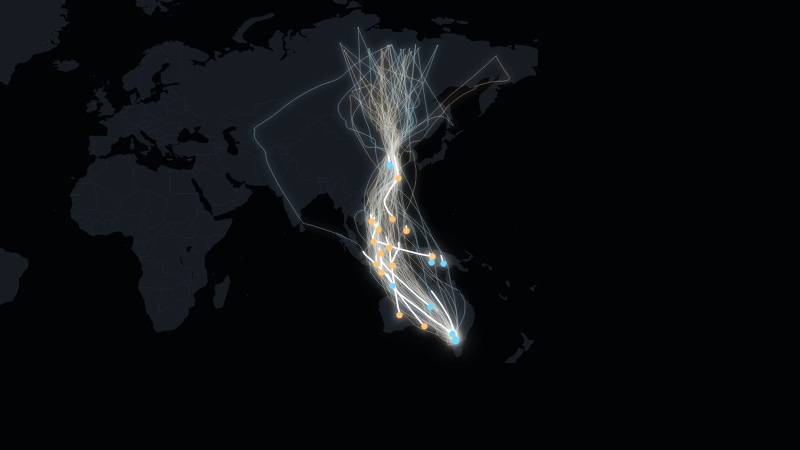
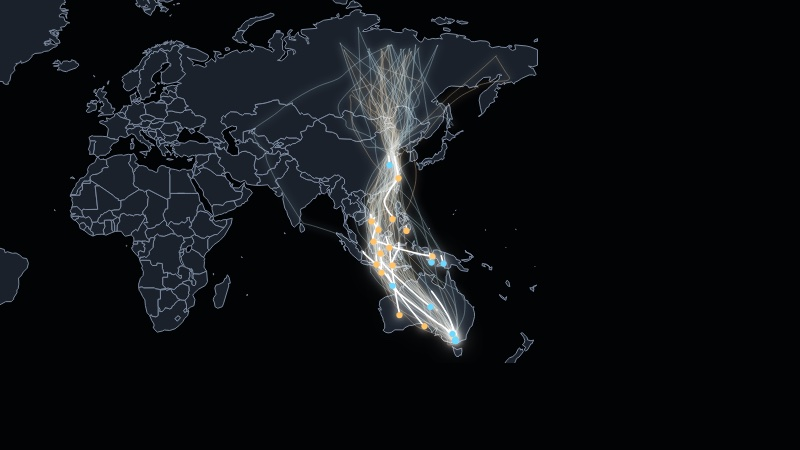
Shorebird migration: clearer country borders and coastlines

diff --git a/nature/shorebird-migration/index.html b/nature/shorebird-migration/index.html
@@ -320,7 +320,7 @@ const BIRDS = [{"id":"036-52471","sp":0,"yr":2019,"km":0,"maxlat":69.7,"from":"2
     plotOptions: { series: { animation: false, states: { inactive: { opacity: 1 }, hover: { lineWidthPlus: 0 } } },
       mapline: { lineWidth: 1 }, mappoint: { stickyTracking: false, findNearestPointBy: 'xy', dataLabels: { enabled: false } } },
     series: [
-      { type: 'map', name: 'Land', mapData: topo, allAreas: true, nullColor: '#161B22', borderColor: '#262D38', borderWidth: 0.4, enableMouseTracking: false, showInLegend: false },
+      { type: 'map', name: 'Land', mapData: topo, allAreas: true, nullColor: '#1A212B', borderColor: '#7A8AA0', borderWidth: 1, enableMouseTracking: false, showInLegend: false },
       trailSeries(0, 'glow', { lineWidth: 4.5, opacity: 0.3 }), trailSeries(1, 'glow', { lineWidth: 4.5, opacity: 0.3 }),
       trailSeries(0, 'trail', { lineWidth: 1, opacity: 0.55 }), trailSeries(1, 'trail', { lineWidth: 1, opacity: 0.55 }),
       trailSeries(0, 'tail', { lineWidth: 1.6, color: '#FFFFFF' }), trailSeries(1, 'tail', { lineWidth: 1.6, color: '#FFFFFF' }),
